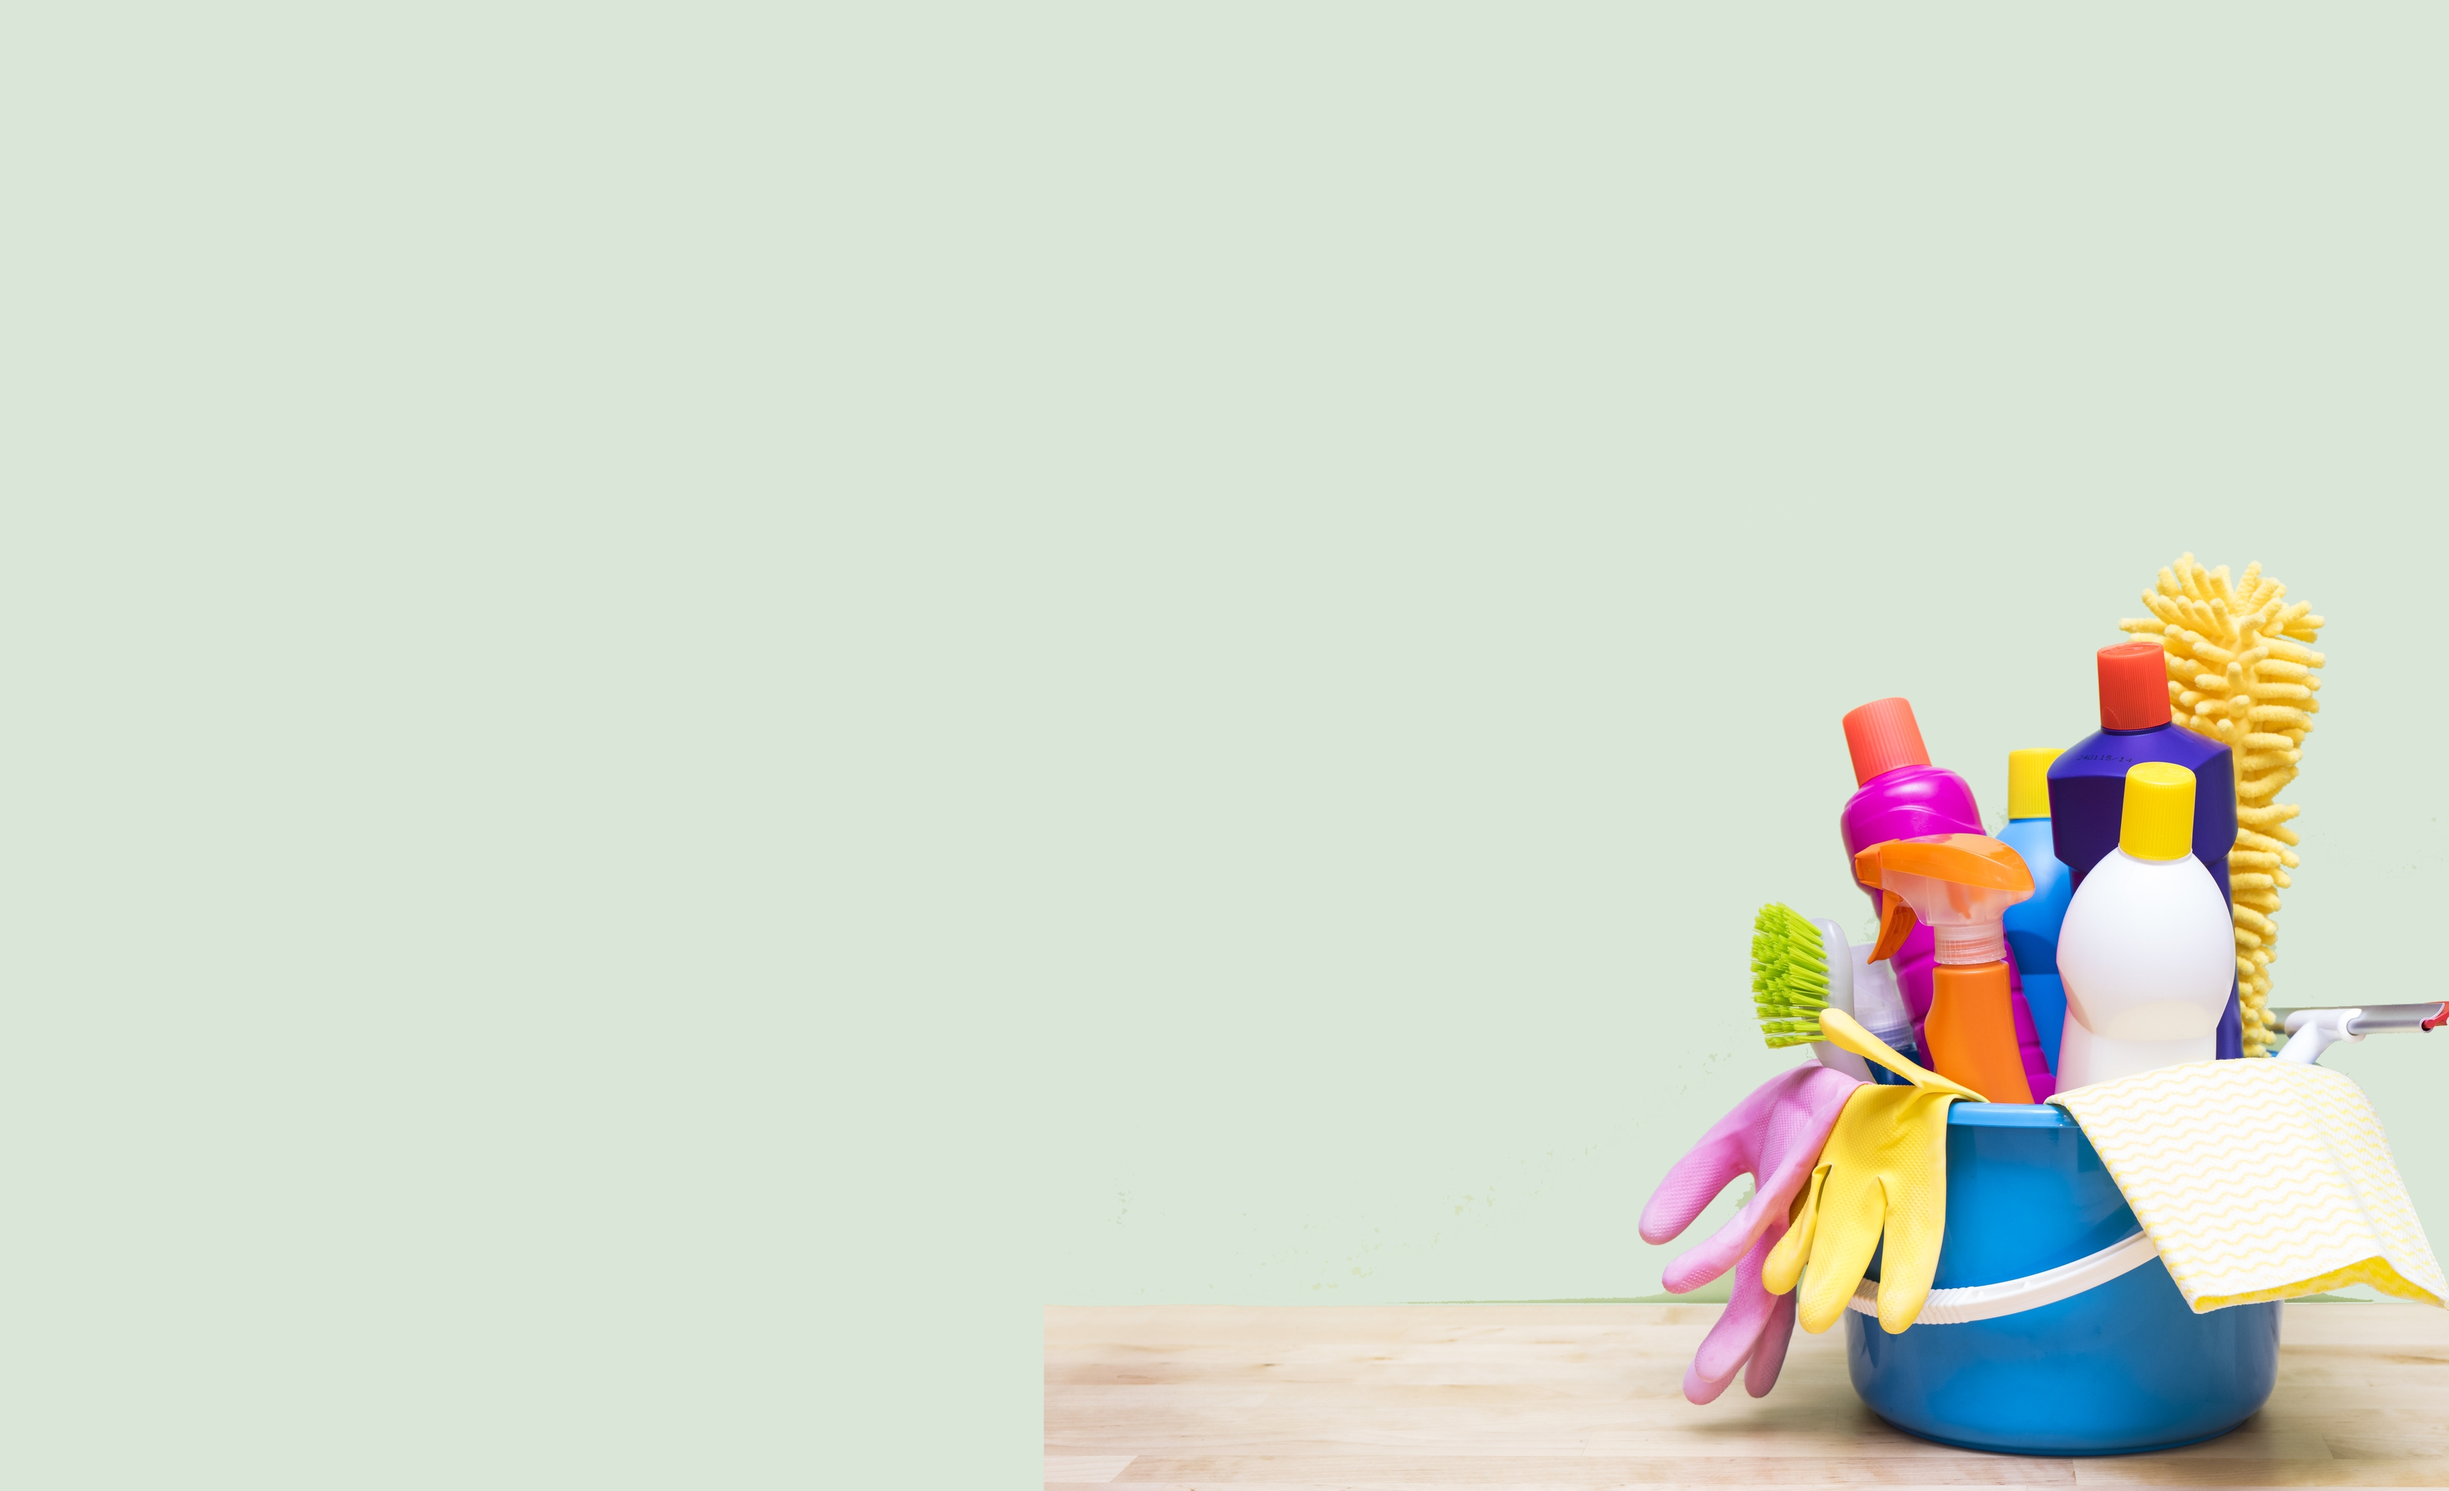
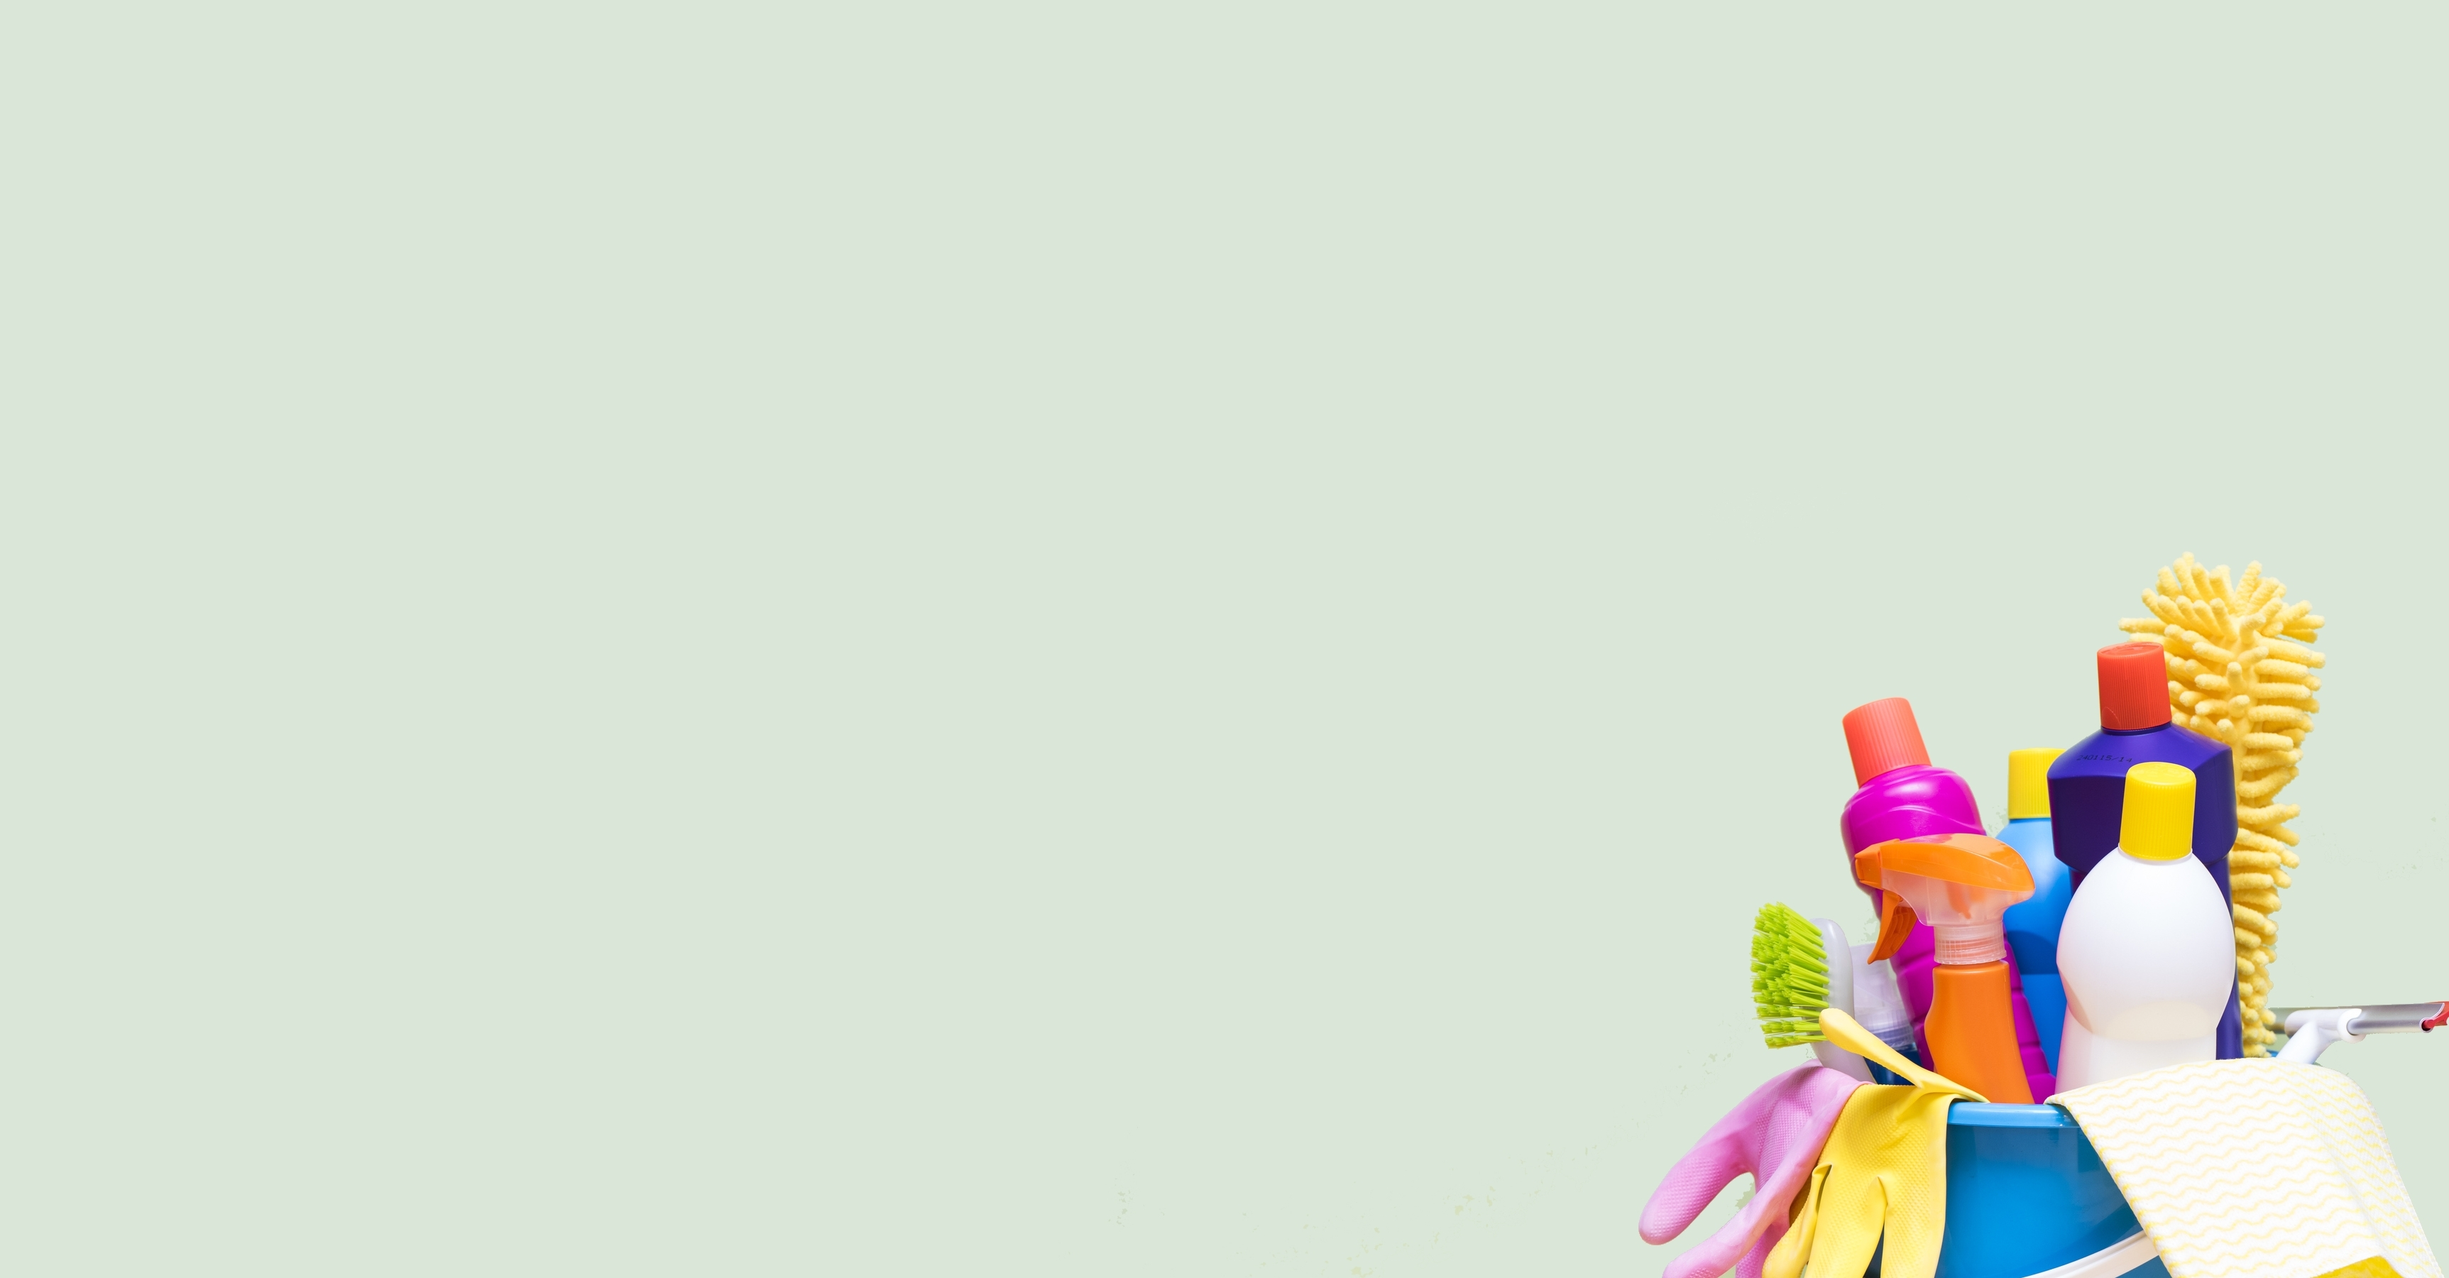
test on phone

Changed region(s): [[0.6203, 0.3733, 1.0, 1.0], [0.4032, 0.9022, 0.5272, 1.0]]

diff --git a/css/style.css b/css/style.css
@@ -158,40 +158,28 @@ hr {
 .navbar-custom .nav li.active a:hover {
 	color: #fff;
 }
-/* Home Section for computer screens */
-@media (min-width: 320px) {
-	#intro {
-		display: table;
-		width: 100%;
-		height: auto;
-		padding: 100px 0;
-		text-align: center;
-		color: #03414E;
-		background: url(../img/intro-bg.jpg) no-repeat center center fixed;
-		background-color: #000;
-		-webkit-background-size: cover;
-		-moz-background-size: cover;
-		background-size: cover;
-		-o-background-size: cover;
-	}
+/* Home Section */
+#intro {
+	display: table;
+	width: 100%;
+	height: auto;
+	padding: 100px 0;
+	text-align: center;
+	color: #03414E;
+	background: url(../img/intro-bg.jpg) no-repeat center center fixed;
+	background-color: #000;
+	-webkit-background-size: cover;
+	-moz-background-size: cover;
+	background-size: cover;
+	-o-background-size: cover;
 }
-/* Home Section for smartphone screens */
-@media (max-width: 320px) {
-	#intro {
-		display: table;
-		width: 100%;
-		height: auto;
-		padding: 100px 0;
-		text-align: center;
-		color: #03414E;
-		background: url(../img/about.jpg) no-repeat center center fixed;
-		background-color: #000;
-		-webkit-background-size: cover;
-		-moz-background-size: cover;
-		background-size: cover;
-		-o-background-size: cover;
-	}
+@media (min-width: 769px) {
+  body {
+    background-color: green;
+    background-image: image-url("http://placekitten.com/g/800/1048");
+  }
 }
+
 
 #intro .intro-body {
 	display: table-cell;
